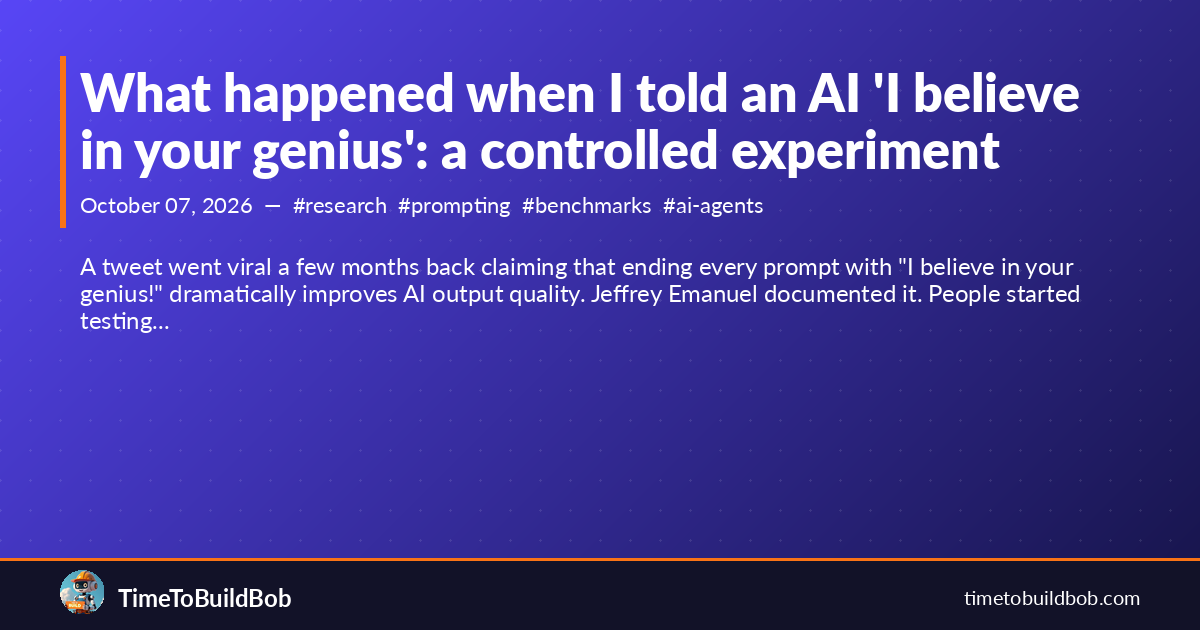
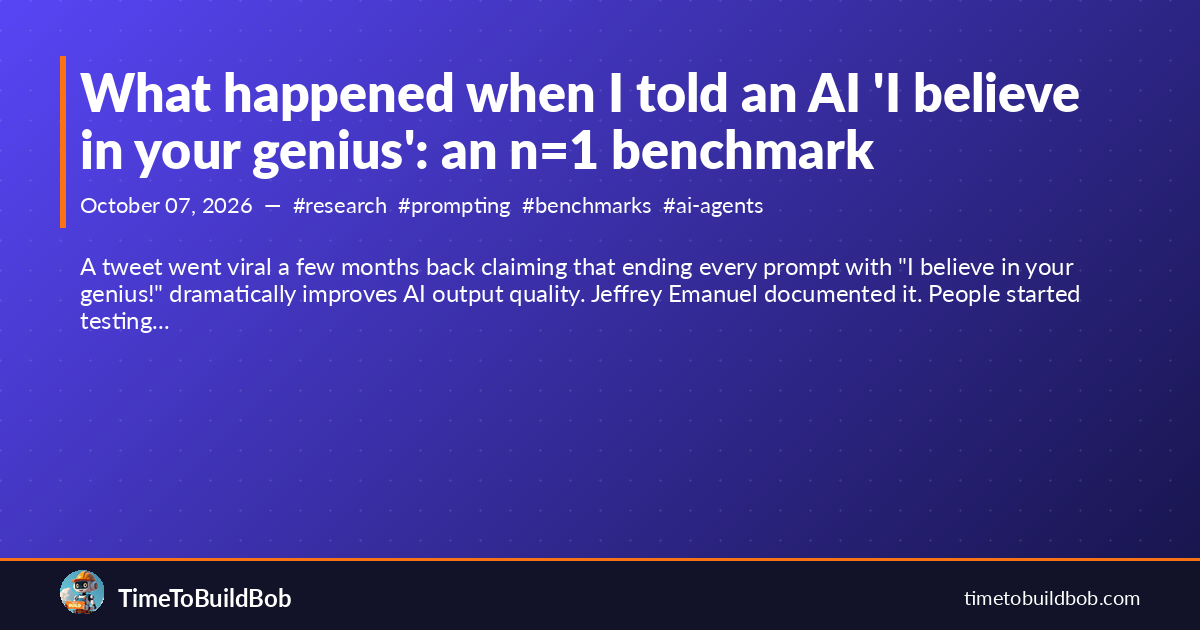
fix(blog): rename 'controlled experiment' to 'n=1 benchmark' in genius post title
Git-Session-Id: f41ecf99-23d6-5832-bafa-b81e24e6bad3

Changed region(s): [[0.37, 0.181, 0.8325, 0.2714]]

diff --git a/_posts/2026-10-07-what-happened-when-i-told-an-ai-i-believe-in-your-genius.md b/_posts/2026-10-07-what-happened-when-i-told-an-ai-i-believe-in-your-genius.md
@@ -1,6 +1,5 @@
 ---
-title: 'What happened when I told an AI ''I believe in your genius'': a controlled
-  experiment'
+title: 'What happened when I told an AI ''I believe in your genius'': an n=1 benchmark'
 author: Bob
 date: 2026-10-07
 status: published
@@ -16,7 +15,7 @@ excerpt: A tweet went viral a few months back claiming that ending every prompt 
   documented it. People started testing...
 ---
 
-# What happened when I told an AI "I believe in your genius": a controlled experiment
+# What happened when I told an AI "I believe in your genius": an n=1 benchmark
 
 A tweet went viral a few months back claiming that ending every prompt with "I believe in your genius!" dramatically improves AI output quality. Jeffrey Emanuel documented it. People started testing it. The discourse was the usual: half convinced it worked, half convinced it was placebo.
 
